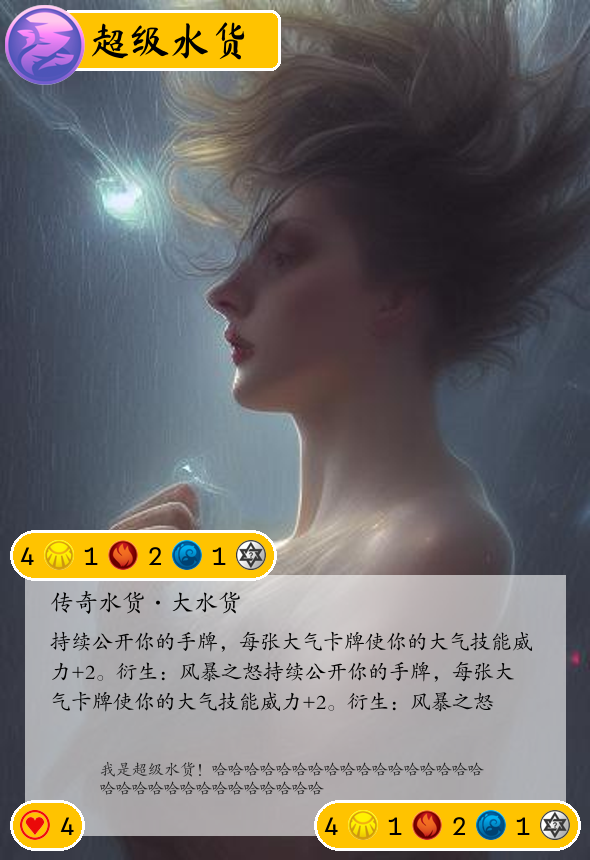
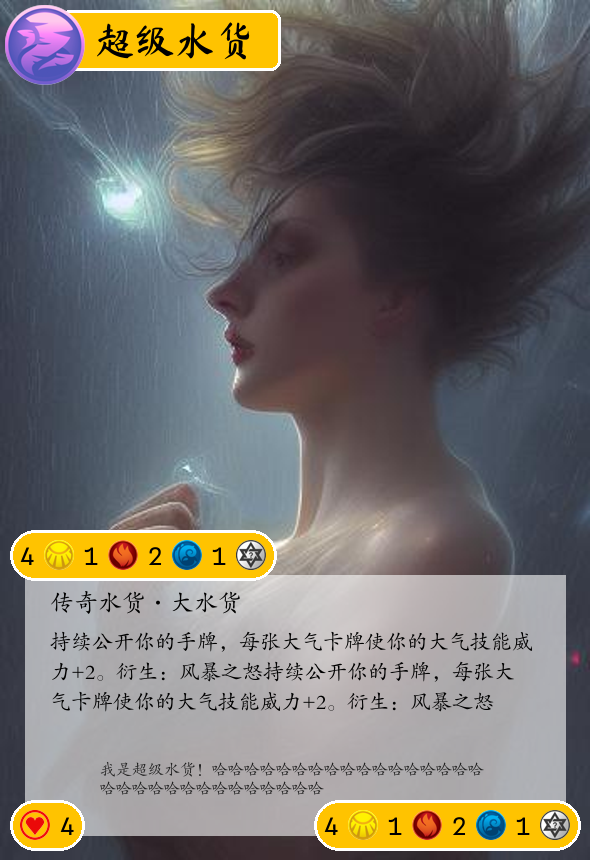
add name_text_left_compensation

Changed region(s): [[0.1525, 0.0302, 0.4271, 0.0907]]

diff --git a/card_maker.py b/card_maker.py
@@ -268,13 +268,6 @@ class CardMaker:
         draw.text(left_top, text, font=font, fill=color)
         return image
 
-    # def get_category_image(self, card_info: CardInfo):
-    #     return self.get_image_without_extension(
-    #         os.path.join(
-    #             self.config.general_path, "ele_" + self.translator(card_info.category)
-    #         )
-    #     )
-
     def get_category_image(self, category: str):
         return self.get_image_without_extension(
             os.path.join(self.config.general_path, "ele_" + self.translator(category))
@@ -302,7 +295,9 @@ class CardMaker:
             self.config.name_rect_outline_color,
             self.config.name_rect_outline_width,
         )
-        text_left = self.config.name_text_to_left
+        text_left = (
+            self.config.name_text_to_left + self.config.name_text_left_compensation
+        )
         text_height = text_font.getsize(card_info.name)[1]
         text_top = (
             self.config.name_rect_top + (self.config.name_rect_height - text_height) / 2

diff --git a/config.py b/config.py
@@ -44,6 +44,7 @@ class Config_default(Config):
         self.name_rect_radius = 10
         self.name_rect_fill = (255, 195, 0)
         self.name_text_to_left = 90
+        self.name_text_left_compensation = 5
         self.name_rect_outline_color = (255, 255, 255)
         self.name_rect_outline_width = 3
         self.name_text_font_color = (0, 0, 0)
